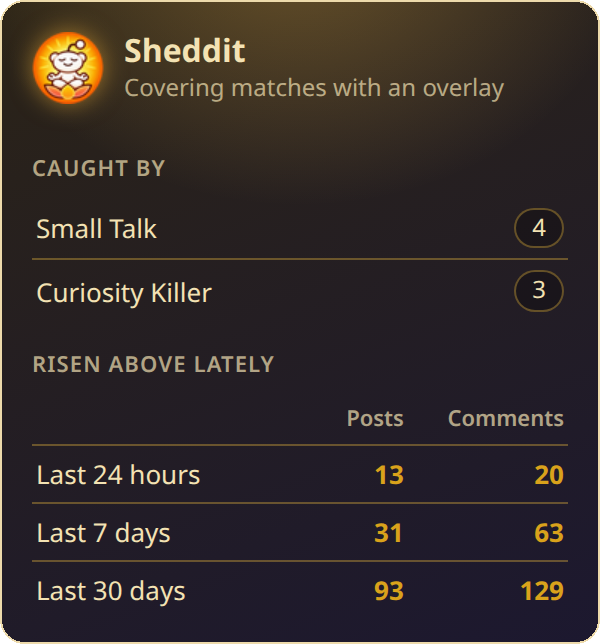
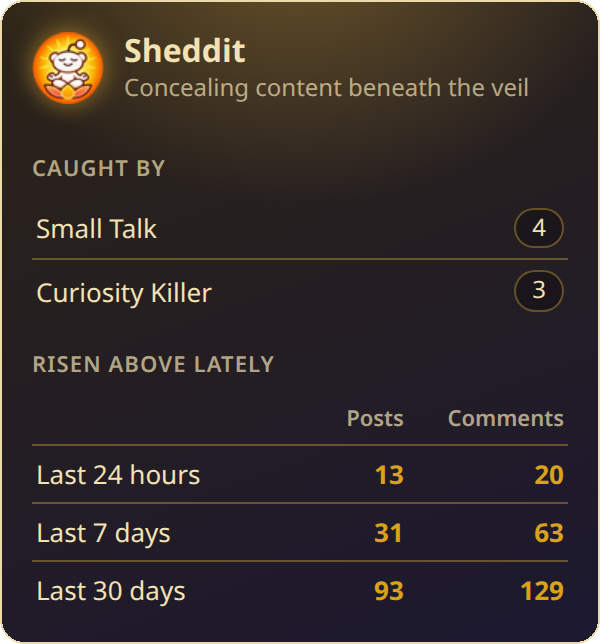
Give the toolbar popup's status lines the README's voice

Changed region(s): [[0.24, 0.1242, 0.9, 0.1553]]

diff --git a/src/popup.js b/src/popup.js
@@ -26,18 +26,18 @@ function render(counts) {
   $("note").hidden = onReddit && counts.posts + counts.comments > 0;
 
   if (!onReddit) {
-    $("mode").textContent = "Not on Reddit";
-    $("note").textContent = "Open a Reddit tab to see what Sheddit hides there.";
+    $("mode").textContent = "Resting between threads";
+    $("note").textContent = "Open a Reddit tab, and Sheddit will walk the path with you.";
     $("breakdown").hidden = true;
     return;
   }
 
-  $("mode").textContent = counts.mode === "veil" ? "Covering matches with an overlay" : "Removing matches";
+  $("mode").textContent = counts.mode === "veil" ? "Concealing content beneath the veil" : "Walking the path";
   $("posts").textContent = counts.posts;
   $("posts-unit").textContent = plural(counts.posts, "post");
   $("comments").textContent = counts.comments;
   $("comments-unit").textContent = plural(counts.comments, "comment");
-  $("note").textContent = "Nothing caught on this page yet.";
+  $("note").textContent = "Nothing here to rise above. Yet.";
 
   const rows = SHEDDIT_FILTERS
     .filter((f) => counts.byFilter[f.id])

diff --git a/src/popup.html b/src/popup.html
@@ -53,7 +53,7 @@
     }
     header img { width: 36px; height: 36px; filter: drop-shadow(0 0 6px rgba(255, 190, 60, 0.55)); }
     h1 { margin: 0; font-size: 16px; font-weight: 700; }
-    .sub { color: var(--ink-soft); font-size: 12px; }
+    .sub { color: var(--ink-soft); font-size: 12px; text-wrap: balance; }
     main { padding: 0 16px 12px; }
     .tally {
       padding: 12px 14px;
